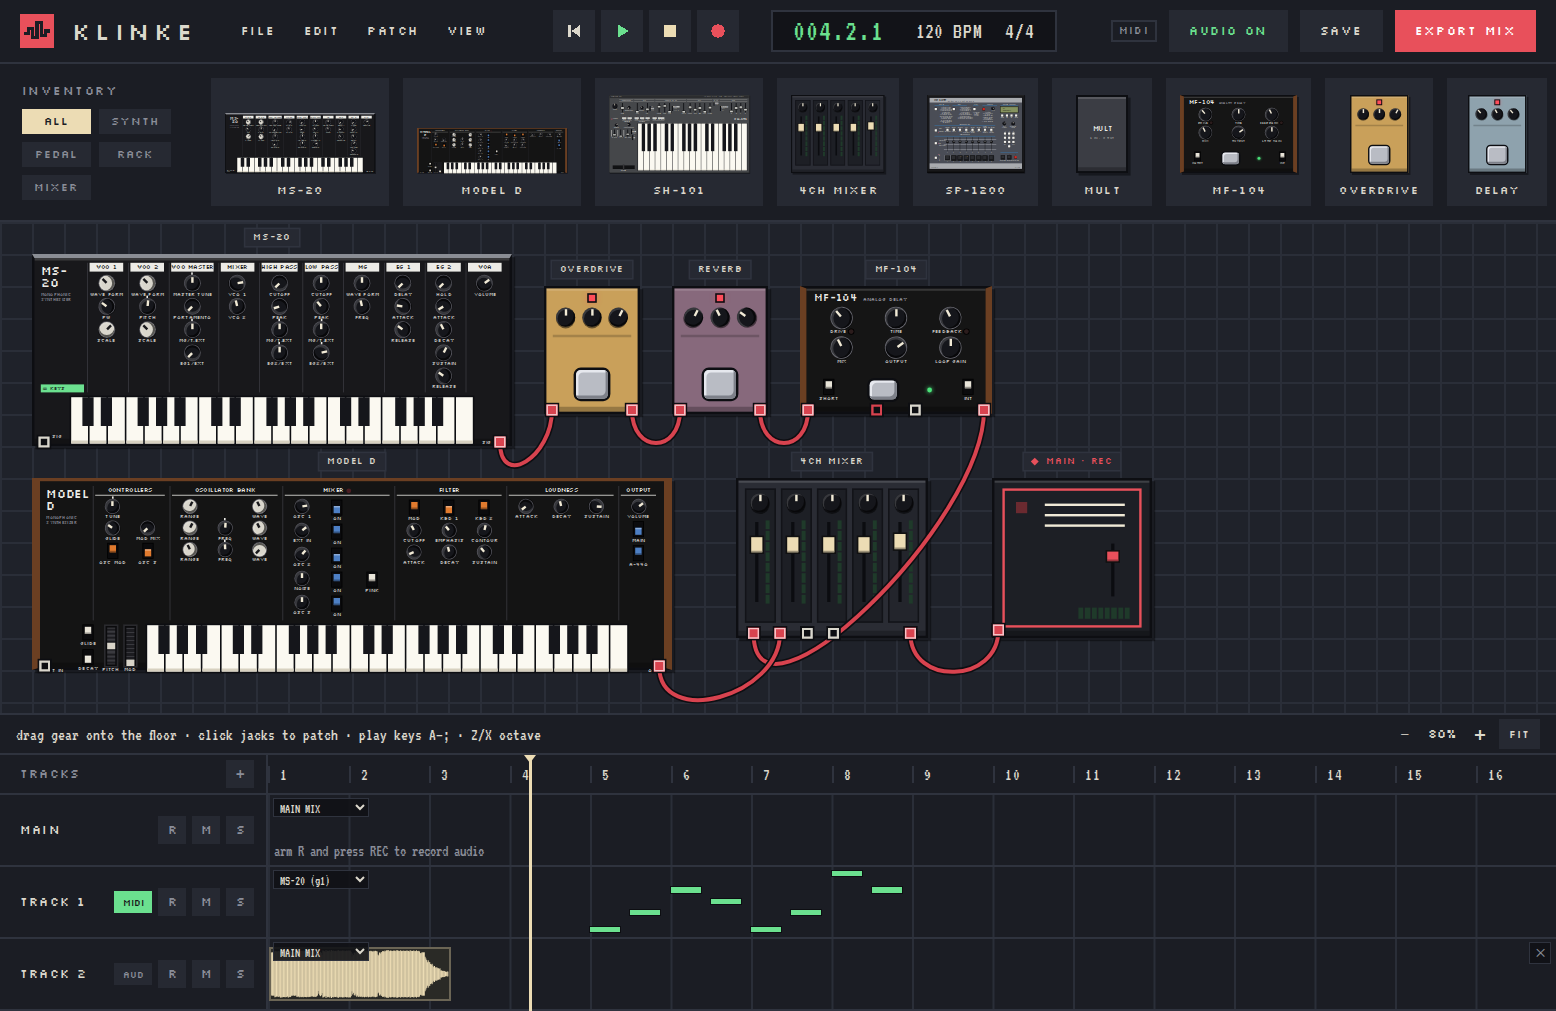
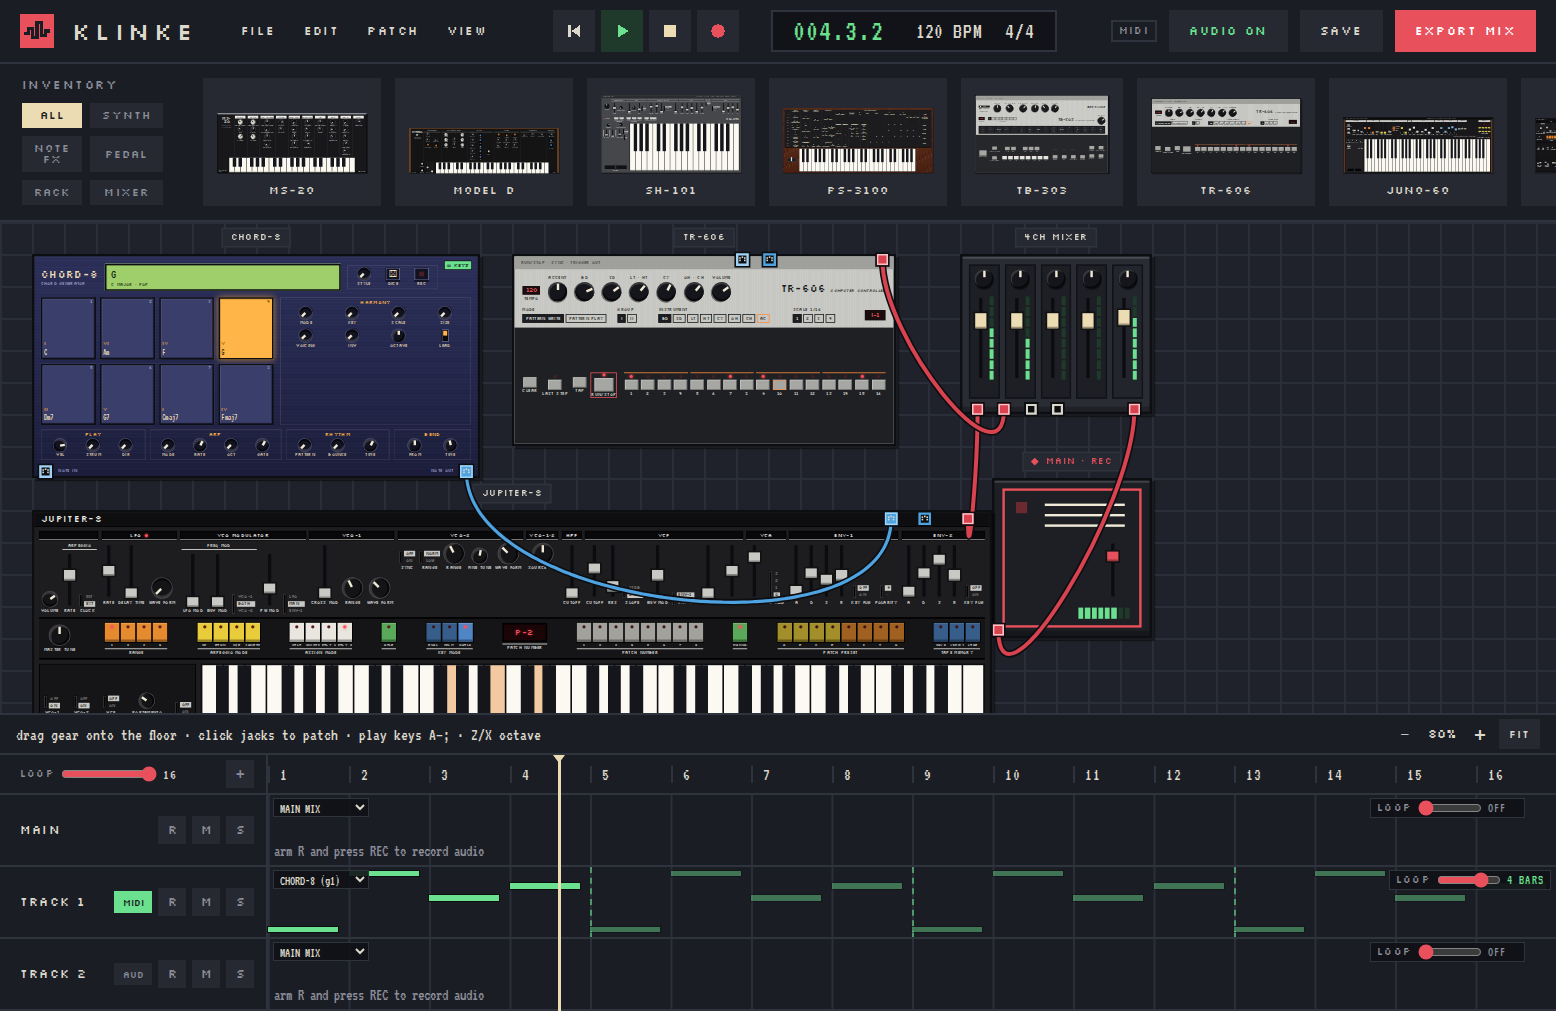
Updated README

diff --git a/src/app/core/patch.ts b/src/app/core/patch.ts
@@ -60,8 +60,8 @@ export const emptyPatch = (): Patch => {
 };
 
 /**
- * The starter rig, after the KLINKE mockup: MS-20 → overdrive → reverb → MF-104 → mixer → main,
- * with a Model D on mixer channel 2.
+ * The starter rig: CHORD-8 plays the JUPITER-8 over a NOTE cable, into mixer channel 1, with the
+ * TR-606 on channel 2; the mixer feeds main. The keys play CHORD-8 (the first gear on the floor).
  */
 export function demoPatch(): Patch {
   let patch = emptyPatch();
@@ -69,19 +69,15 @@ export function demoPatch(): Patch {
     patch = addGear(patch, kind, x, y);
     return patch.gear[patch.gear.length - 1].id;
   };
-  const synth = place('ms20', 1, 1);
-  const drive = place('overdrive', 17, 2);
-  const verb = place('reverb', 21, 2);
-  const delay = place('mf104', 25, 2);
-  const modelD = place('modelD', 1, 8);
-  const mixer = place('mixer', 23, 8);
+  const chords = place('chords', 1, 1);
+  const drums = place('tr606', 16, 1);
+  const mixer = place('mixer', 30, 1);
+  const poly = place('jupiter8', 1, 9);
   patch = moveGear(patch, 'g0', 31, 8);
   const chain: [string, string, string, string][] = [
-    [synth, 'out', drive, 'in'],
-    [drive, 'out', verb, 'in'],
-    [verb, 'out', delay, 'in'],
-    [delay, 'out', mixer, 'in1'],
-    [modelD, 'out', mixer, 'in2'],
+    [chords, 'notesOut', poly, 'notesIn'],
+    [poly, 'out', mixer, 'in1'],
+    [drums, 'out', mixer, 'in2'],
     [mixer, 'out', 'g0', 'in'],
   ];
   for (const [g1, j1, g2, j2] of chain) {

diff --git a/tests/patch.test.ts b/tests/patch.test.ts
@@ -121,18 +121,18 @@ test('a jack holds one cable: replugging pulls the old cable out', () => {
 
 test('removing gear unplugs its cables', () => {
   let p = demoPatch();
-  const delay = p.gear.find((g) => g.kind === 'mf104')!;
+  const poly = p.gear.find((g) => g.kind === 'jupiter8')!;
   const before = p.cables.length;
-  p = removeGear(p, delay.id);
-  assert.equal(p.cables.length, before - 2); // reverb → delay and delay → mixer
-  assert.ok(p.cables.every((c) => c.from.gear !== delay.id && c.to.gear !== delay.id));
+  p = removeGear(p, poly.id);
+  assert.equal(p.cables.length, before - 2); // CHORD-8 → JUPITER-8 and JUPITER-8 → mixer
+  assert.ok(p.cables.every((c) => c.from.gear !== poly.id && c.to.gear !== poly.id));
   assert.equal(disconnect(p, p.cables[0].id).cables.length, before - 3);
 });
 
 test('signal order puts every source before what it feeds', () => {
   const p = demoPatch();
   const kinds = signalOrder(p).map((id) => p.gear.find((g) => g.id === id)!.kind);
-  assert.deepEqual(kinds, ['ms20', 'modelD', 'overdrive', 'reverb', 'mf104', 'mixer', 'output']);
+  assert.deepEqual(kinds, ['chords', 'tr606', 'jupiter8', 'mixer', 'output']);
 });
 
 test('free spots never overlap gear or the tag row above it', () => {

diff --git a/README.md b/README.md
@@ -1,6 +1,6 @@
 <p align="center"><img src="docs/klinke-logo.svg" alt="KLINKE" width="560"></p>
 
-<p align="center"><img src="docs/klinke-studio.png" alt="KLINKE patch floor with synths, pedals, a mixer and the timeline" width="720"></p>
+<p align="center"><img src="docs/klinke-studio.png" alt="KLINKE patch floor with a chord generator, synths, a drum machine, a mixer and the timeline" width="720"></p>
 
 <p align="center">
   A patch bay studio in the browser · Built with Angular and the Web Audio API
@@ -42,11 +42,12 @@ sound is generated live in the browser; there is no server.
 ## Quick start
 
 1. Open the [live demo](https://jonobail.github.io/klinke/). The demo rig is already patched:
-   a synth runs through two pedals and a delay, and joins a second synth in the mixer
-   feeding **MAIN • REC**.
+   a chord generator plays a polysynth over a NOTE cable, and a drum machine joins it in the
+   mixer feeding **MAIN • REC**.
 2. Click anywhere to start audio, then play **A S D F G H J K L** (white keys) and
    **W E T Y U O P** (black keys); **Z / X** change octave.
-3. Click a synth to give it the keyboard (marked **⌨ KEYS**).
+3. Click a synth to give it the keyboard (marked **⌨ KEYS**); press **RUN/STOP** on the drum
+   machine to start its beat.
 4. Arm a track with **R**, press **REC**, play, then press **EXPORT MIX** to save a WAV.
 
 ## Using KLINKE
